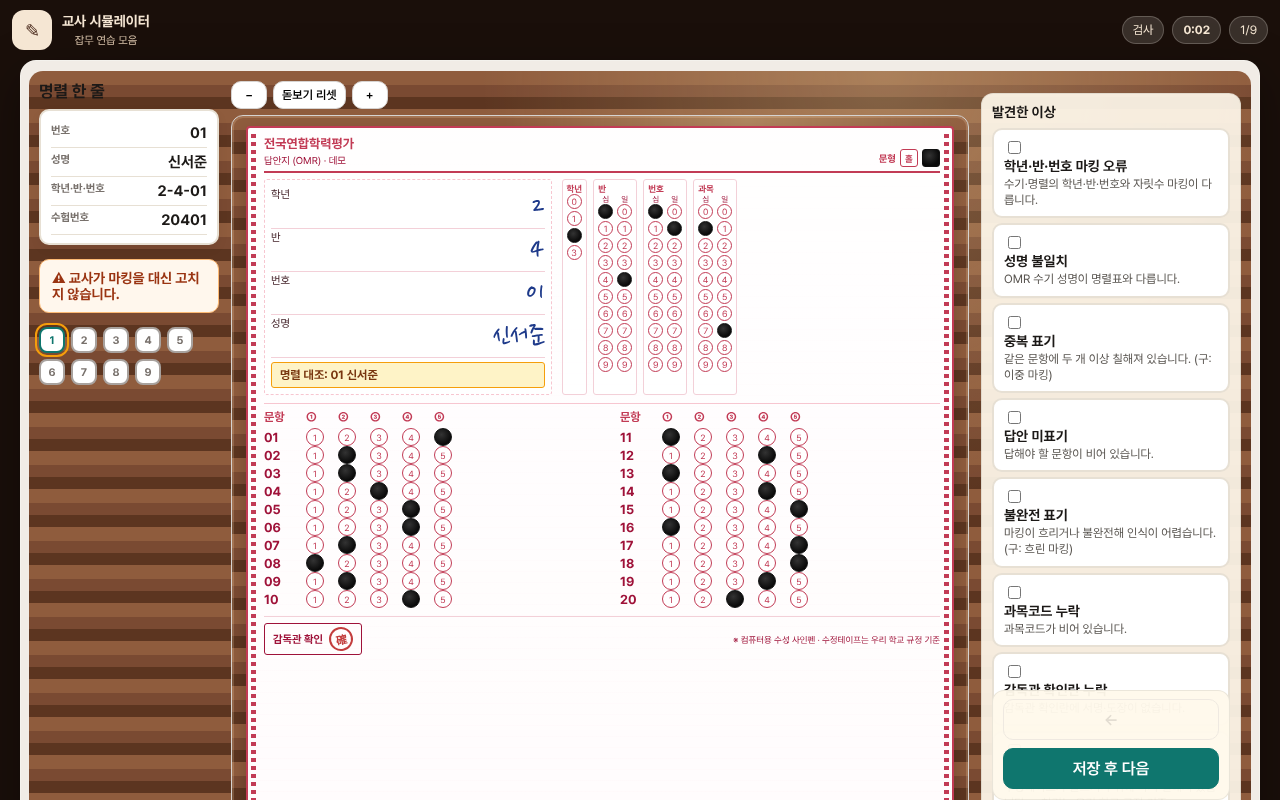
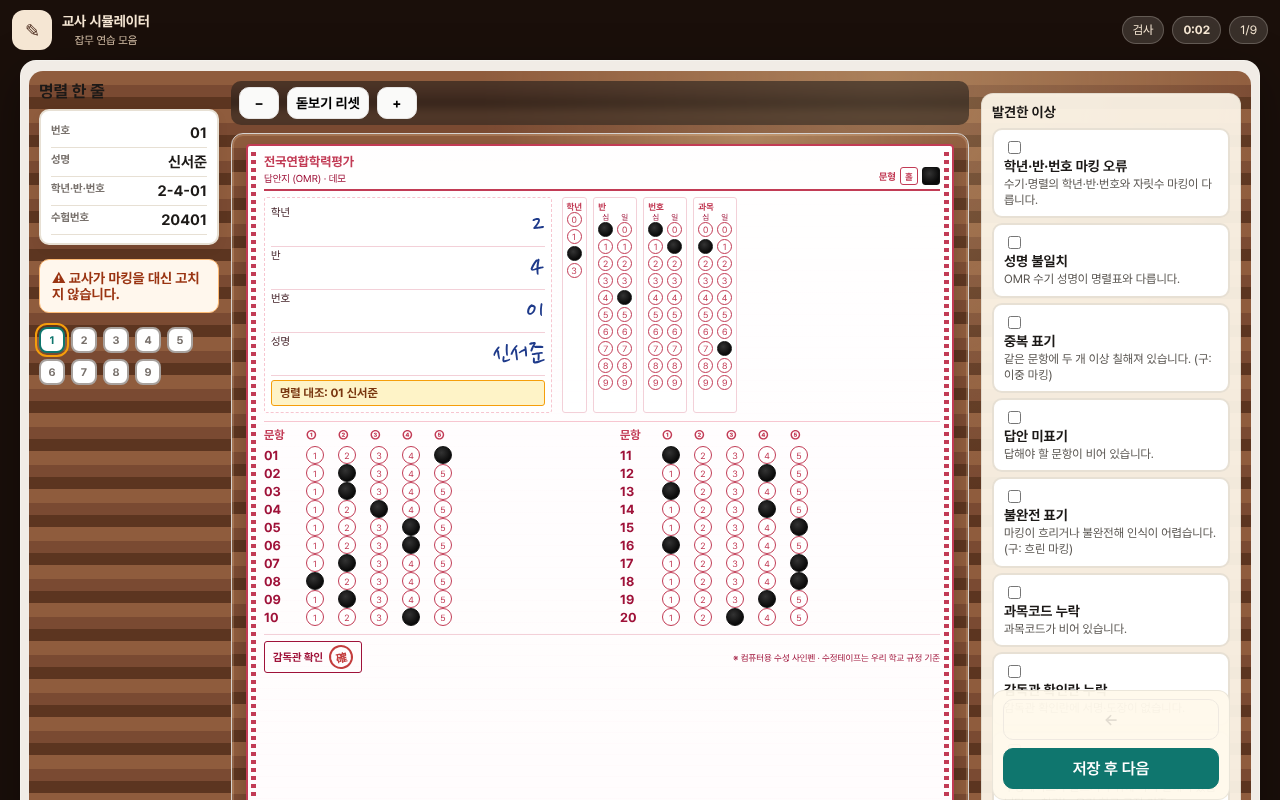
Round 0051: zoom toolbar and high-contrast toast
Put zoom controls on a dark glass bar and make toasts large
enough to read over the desk wood.

Changed region(s): [[0.1562, 0.0938, 0.7812, 1.0], [0.5, 0.6562, 0.5312, 0.6875]]

diff --git a/src/style.css b/src/style.css
@@ -1786,3 +1786,44 @@ kbd {
   font-weight: 800;
   margin-bottom: 6px;
 }
+
+
+/* 0051 zoom toolbar + toast */
+.zoom-toolbar {
+  display: flex;
+  gap: 8px;
+  align-items: center;
+  margin-bottom: 8px !important;
+  padding: 6px 8px;
+  background: rgba(28,25,23,0.55);
+  border-radius: 10px;
+  backdrop-filter: blur(4px);
+}
+.zoom-toolbar .btn.tiny {
+  min-width: 40px;
+  min-height: 32px;
+  font-size: 14px;
+  font-weight: 800;
+  background: #fafaf9;
+  border: 1px solid #e7e5e4;
+}
+.zoom-toolbar .btn.tiny:hover {
+  background: #ccfbf1;
+  border-color: #14b8a6;
+}
+.toast {
+  position: fixed !important;
+  left: 50% !important;
+  bottom: 28px !important;
+  transform: translateX(-50%);
+  z-index: 80 !important;
+  max-width: min(520px, 92vw);
+  padding: 12px 18px !important;
+  border-radius: 12px !important;
+  background: #1c1917 !important;
+  color: #fef9c3 !important;
+  font-size: 15px !important;
+  font-weight: 700;
+  box-shadow: 0 12px 28px rgba(0,0,0,0.35);
+  border: 1px solid #44403c;
+}

diff --git a/docs/issues/0051-zoom-toast.md b/docs/issues/0051-zoom-toast.md
@@ -1,0 +1,10 @@
+# 0051 Zoom toolbar + toast
+
+## Critique
+Zoom buttons blended into wood; toast easy to miss.
+
+## Fix
+Dark glass toolbar behind +/−; high-contrast fixed toast.
+
+## Verify
+e2e OK · viewport OK

diff --git a/docs/ROUNDLOG.md b/docs/ROUNDLOG.md
@@ -79,3 +79,6 @@
 
 ## Round 0050 (03:07 KST)
 - Hub locked tiles + dark foot
+
+## Round 0051 (03:12 KST)
+- Zoom toolbar + high-contrast toast
